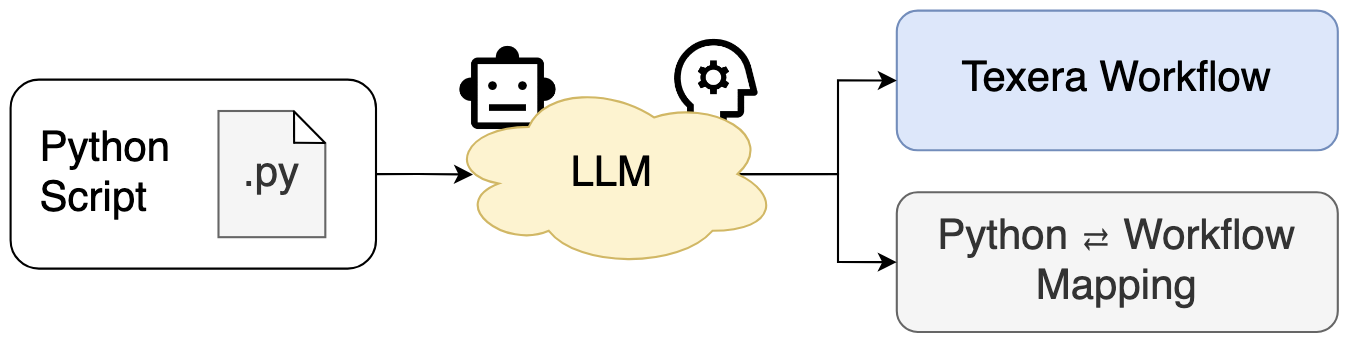
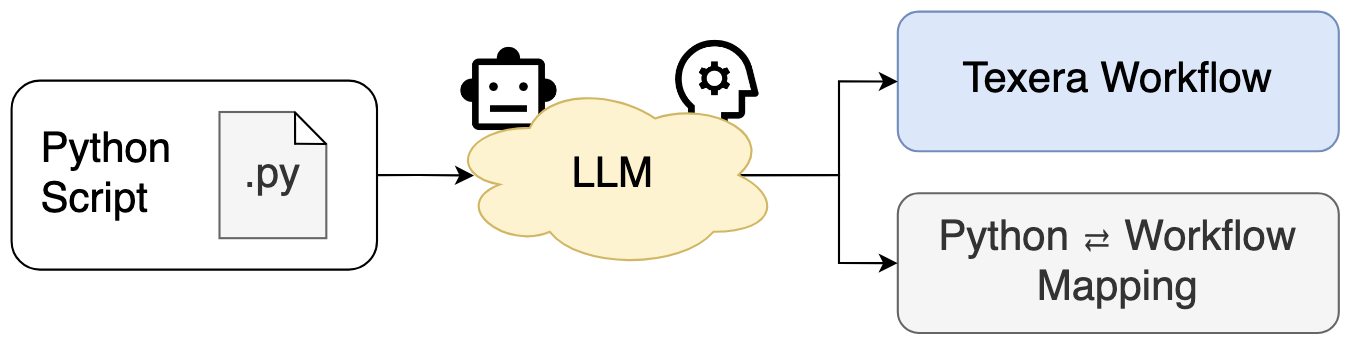
style(notebook-migration): normalize the import modal diagrams to one size

diff --git a/frontend/src/app/workspace/component/notebook-import-modal/notebook-import-modal.component.html b/frontend/src/app/workspace/component/notebook-import-modal/notebook-import-modal.component.html
@@ -75,8 +75,8 @@
             <img
               ngSrc="assets/notebook_migration_tool/tool_popup_diagram.png"
               alt="Notebook to Workflow"
-              width="1132"
-              height="290" />
+              width="1350"
+              height="344" />
           </div>
 
           <nz-form-item>
@@ -112,8 +112,8 @@
             <img
               ngSrc="assets/notebook_migration_tool/python_file_diagram.png"
               alt="Python File to Workflow"
-              width="1348"
-              height="346" />
+              width="1350"
+              height="344" />
           </div>
 
           <nz-form-item>
@@ -150,8 +150,8 @@
             <img
               ngSrc="assets/notebook_migration_tool/python_folder_diagram.png"
               alt="Python Folder to Workflow"
-              width="2262"
-              height="588" />
+              width="1350"
+              height="344" />
           </div>
 
           <nz-form-item>
